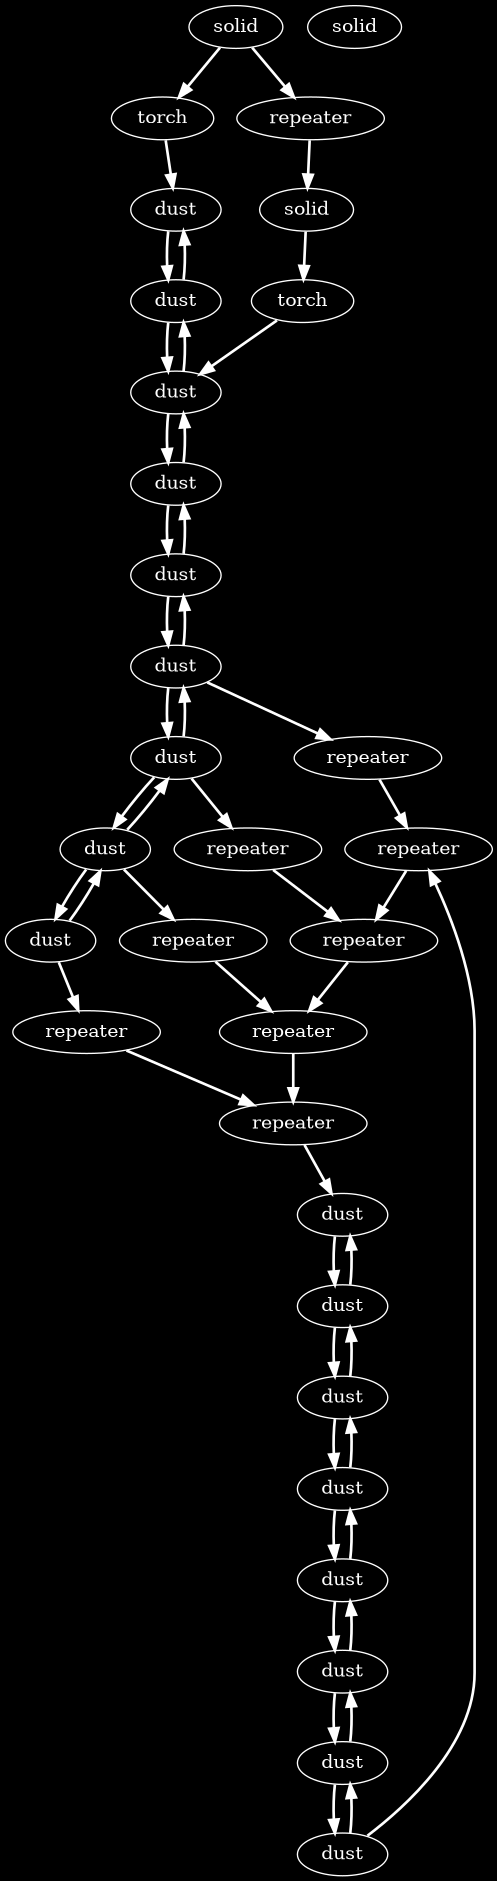
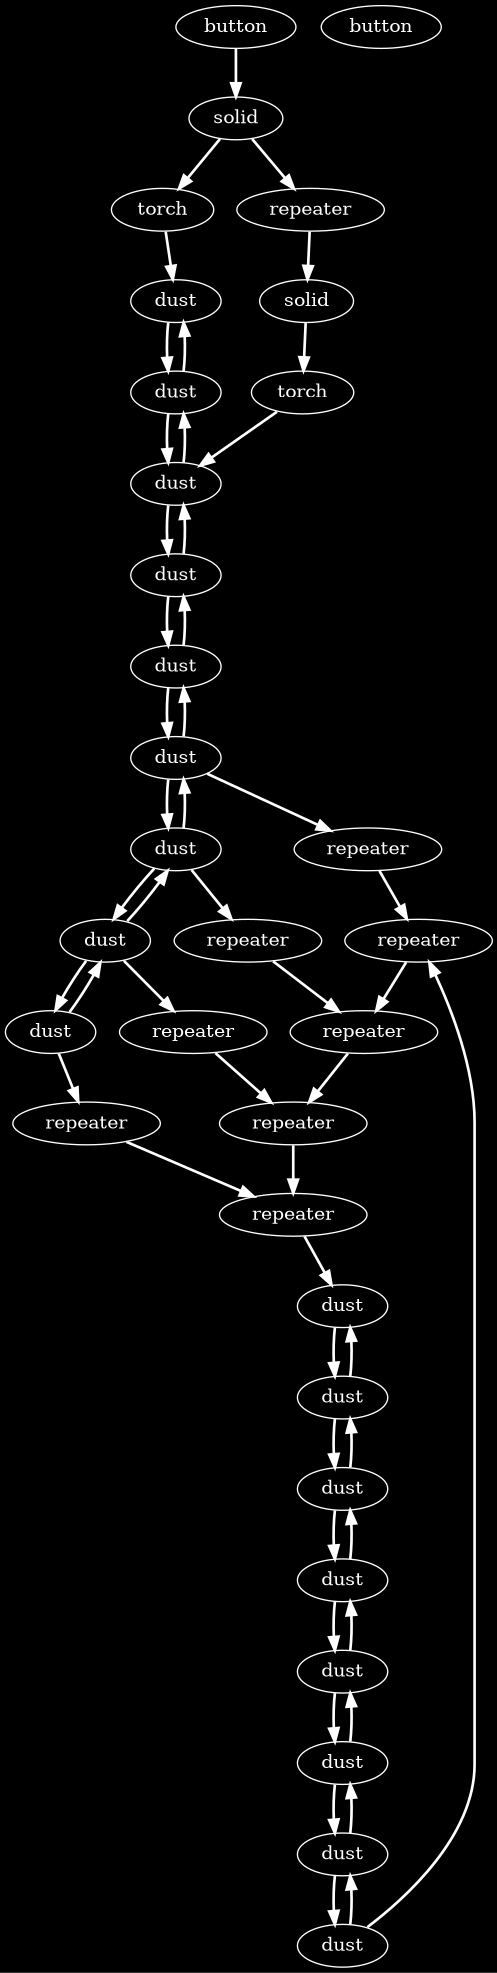
buttons

diff --git a/common/src/main/java/in/lakazatong/pcbmod/redstone/blocks/Button.java b/common/src/main/java/in/lakazatong/pcbmod/redstone/blocks/Button.java
@@ -8,17 +8,17 @@ import in.lakazatong.pcbmod.redstone.Vec3;
 import java.util.Map;
 import java.util.Set;
 
-public class Torch extends Block {
-
-    public Torch(Vec3 coords, Structure structure) {
-        super(BlockType.TORCH, coords, structure);
-        delay = 2; // 1 redstone tick * 2 = 2
+public class Button extends Block {
+    public Button(Vec3 coords, Structure structure) {
+        super(BlockType.BUTTON, coords, structure);
+        onWall = true;
     }
 
+    @SuppressWarnings("unchecked")
     @Override
     protected void initProps(Map<String, Object> props) {
-        onWall = (boolean) props.get("onWall");
         signal = (int) props.get("signal");
+        delay = (int) props.get("delay") * 2;
         if (props.get("facings") instanceof Set<?> tmp)
             tmp.forEach(facing -> facings.add(((Vec3) facing)));
     }
@@ -26,7 +26,7 @@ public class Torch extends Block {
     @Override
     public boolean isInputOf(Block neighbor) {
         return switch (neighbor.type) {
-            case SOLID -> neighbor.isAbove(this);
+            case SOLID -> this.isOnWallOf(neighbor);
             case DUST -> true;
             case REPEATER, COMPARATOR -> neighbor.isFacingAway(this);
             default -> false;
@@ -35,11 +35,6 @@ public class Torch extends Block {
 
     @Override
     public int logic(double t) {
-        // TODO: consider the 1 redstone tick delay of the torch
-        for (Block block : inputs) {
-            if (block.signal > 0)
-                return 0;
-        }
-        return 15;
+        return t < delay ? 15 : 0;
     }
 }

diff --git a/common/src/main/java/in/lakazatong/pcbmod/redstone/Structure.java b/common/src/main/java/in/lakazatong/pcbmod/redstone/Structure.java
@@ -5,10 +5,7 @@ import dev.dewy.nbt.tags.collection.CompoundTag;
 import dev.dewy.nbt.tags.collection.ListTag;
 import dev.dewy.nbt.tags.primitive.IntTag;
 import in.lakazatong.pcbmod.redstone.Block.BlockBuilder;
-import in.lakazatong.pcbmod.redstone.blocks.Dust;
-import in.lakazatong.pcbmod.redstone.blocks.Repeater;
-import in.lakazatong.pcbmod.redstone.blocks.Solid;
-import in.lakazatong.pcbmod.redstone.blocks.Torch;
+import in.lakazatong.pcbmod.redstone.blocks.*;
 
 import java.io.IOException;
 import java.nio.file.Path;
@@ -123,6 +120,8 @@ public class Structure {
                 case "minecraft:repeater" -> new BlockBuilder(Repeater::new);
                 case "minecraft:redstone_torch" -> new BlockBuilder(Torch::new);
                 case "minecraft:redstone_wall_torch" -> new BlockBuilder(Torch::new).withProp("onWall", true);
+                case "minecraft:stone_button" -> new BlockBuilder(Button::new).withProp("delay", 10);
+                case "minecraft:wooden_button" -> new BlockBuilder(Button::new).withProp("delay", 20);
                 default -> new BlockBuilder(Solid::new);
             };
 

diff --git a/common/src/main/java/in/lakazatong/pcbmod/redstone/blocks/Repeater.java b/common/src/main/java/in/lakazatong/pcbmod/redstone/blocks/Repeater.java
@@ -26,10 +26,8 @@ public class Repeater extends Block {
         signal = (int) props.get("signal");
         delay = (int) props.get("delay") * 2;
         logicImpl = (boolean) props.get("locked") ? this::lockedLogic : this::defaultLogic;
-        if (props.get("facings") instanceof Set<?> tmp) {
-            assert facings.isEmpty();
+        if (props.get("facings") instanceof Set<?> tmp)
             tmp.forEach(facing -> facings.add((((Vec3) facing).opposite())));
-        }
     }
 
     @Override

diff --git a/common/src/main/java/in/lakazatong/pcbmod/redstone/BlockType.java b/common/src/main/java/in/lakazatong/pcbmod/redstone/BlockType.java
@@ -1,7 +1,13 @@
 package in.lakazatong.pcbmod.redstone;
 
 public enum BlockType {
-    AIR(0), SOLID(1), DUST(2), REPEATER(3), TORCH(4), COMPARATOR(5);
+    AIR(0),
+    SOLID(1),
+    DUST(2),
+    REPEATER(3),
+    TORCH(4),
+    COMPARATOR(5),
+    BUTTON(6);
 
     public final int value;
 
